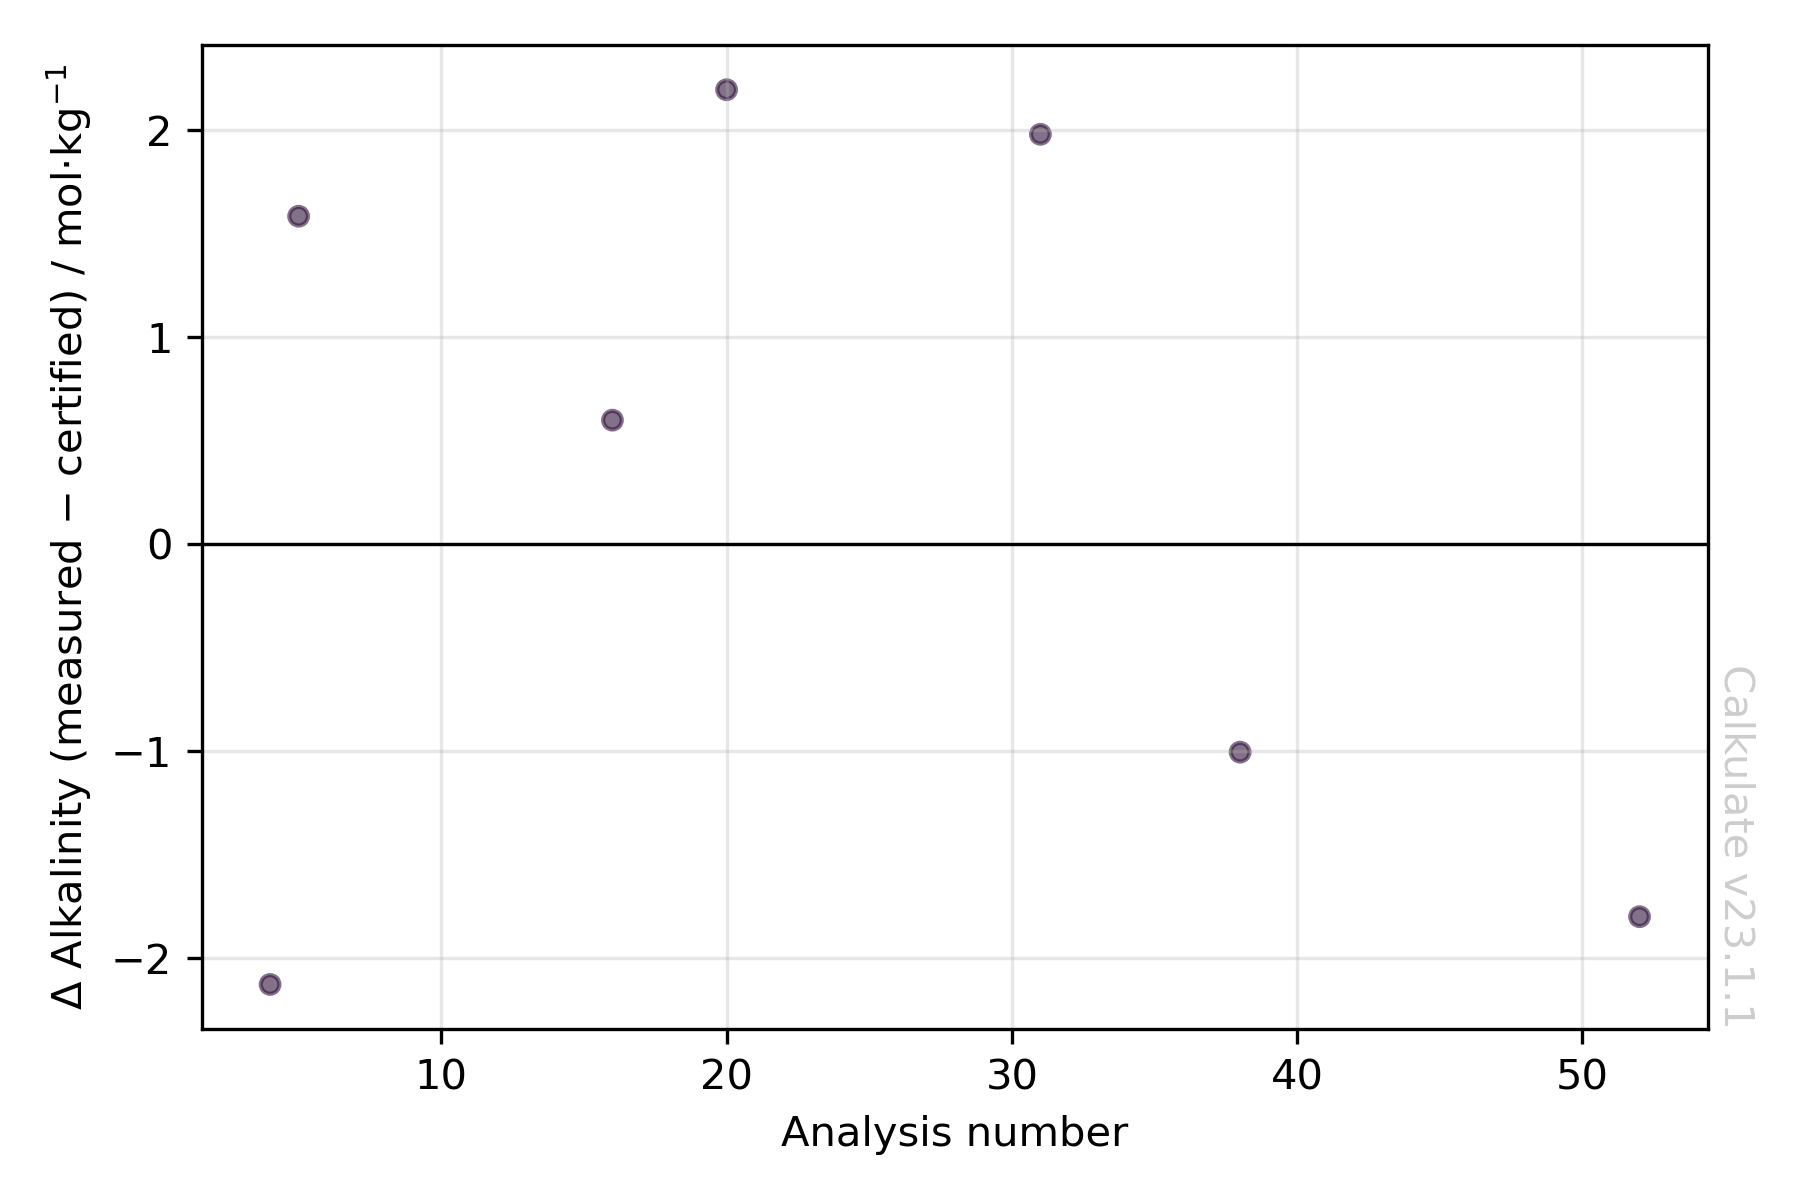
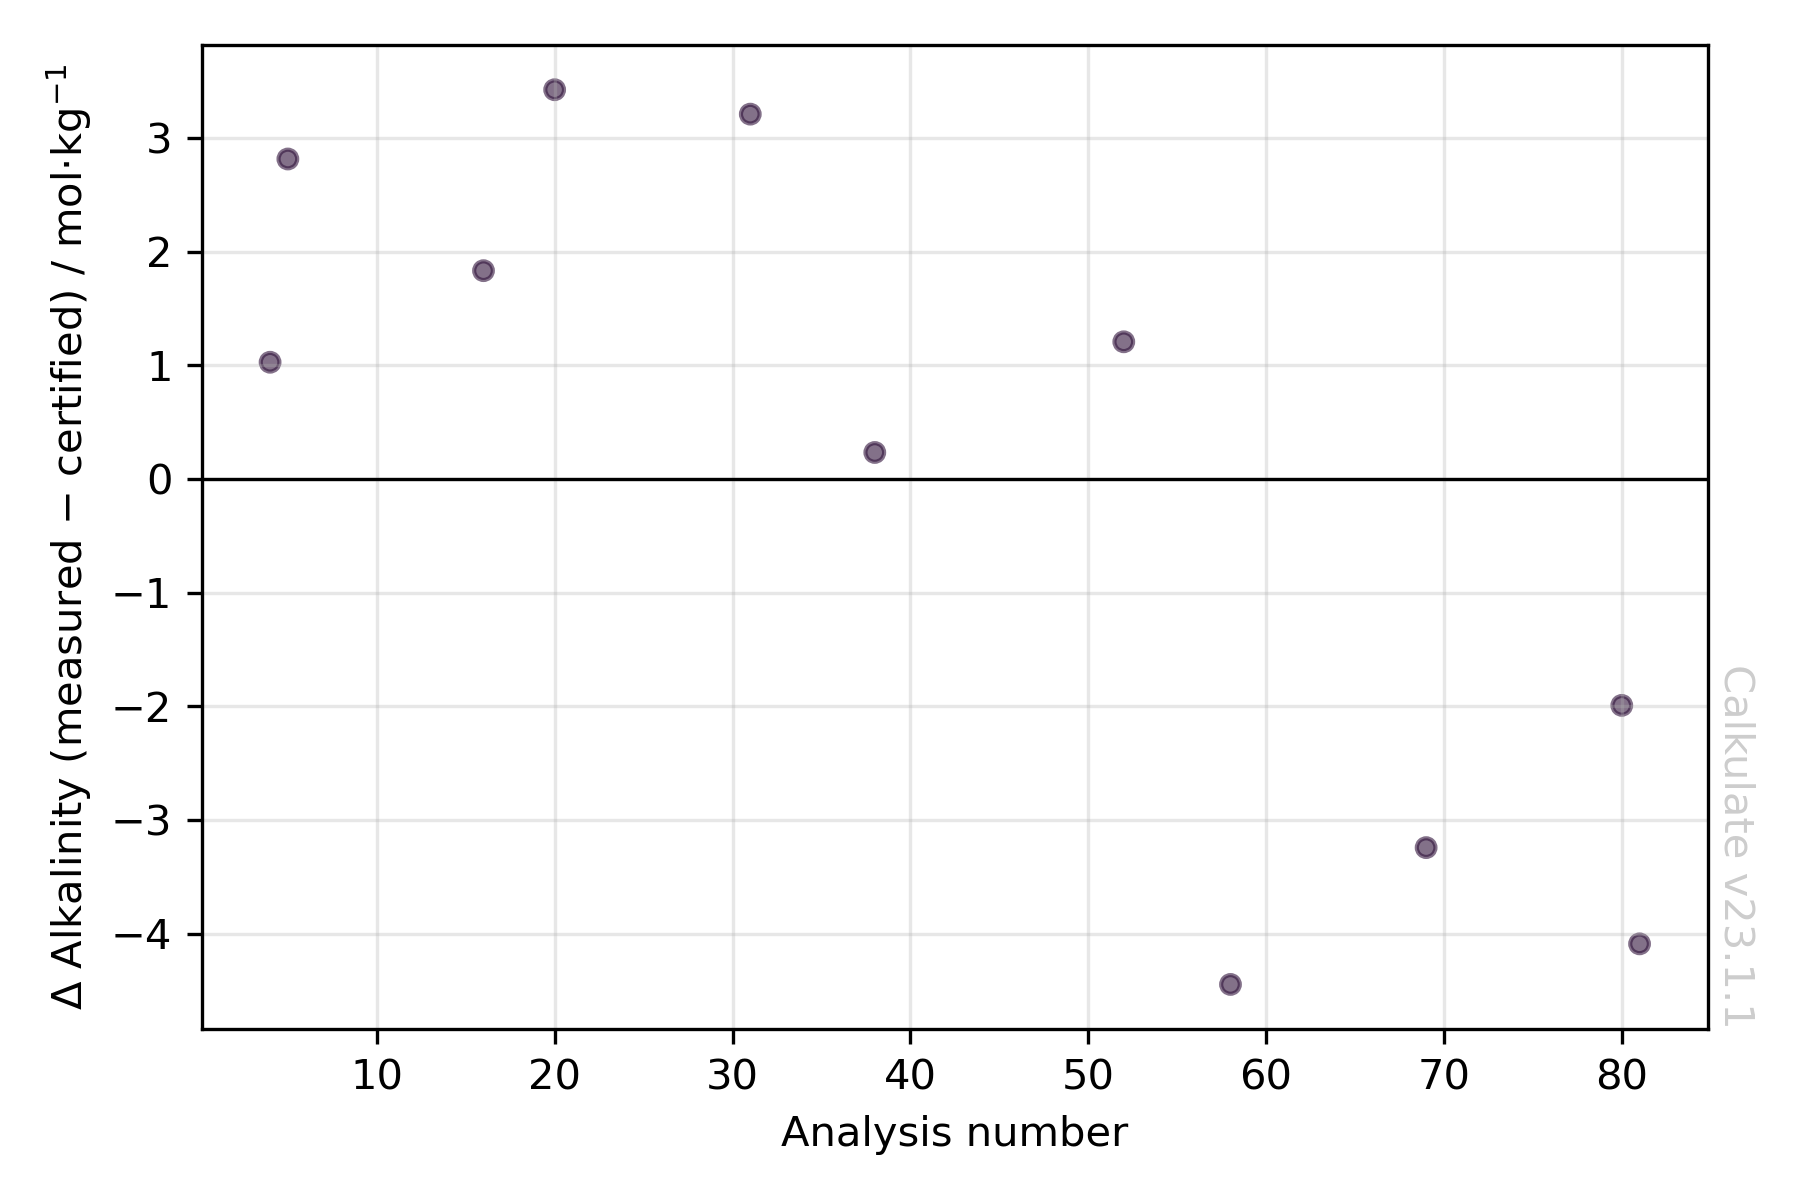
fixed datetime error

diff --git a/vindta/storage_test_process.py b/vindta/storage_test_process.py
@@ -30,23 +30,30 @@ L = (dbs['analysis_datetime'].dt.day == 2) & (dbs['analysis_datetime'].dt.month 
 dbs.loc[L, 'analysis_datetime'] = dbs['analysis_datetime'] + DateOffset(hours=10)
 dbs.loc[L, 'analysis_datetime'] = dbs['analysis_datetime'].apply(lambda dt: dt.replace(year=2021, month=10, day=6))
 
-# Modify date error for 27/10/2021
-L = (dbs['analysis_datetime'].dt.day == 2) & (dbs['analysis_datetime'].dt.month == 5) & (dbs['analysis_datetime'].dt.year == 2005) & (dbs['analysis_datetime'].dt.hour > 9)
-dbs.loc[L, 'analysis_datetime'] = dbs['analysis_datetime'] - DateOffset(hours=10)
-dbs.loc[L, 'analysis_datetime'] = dbs['analysis_datetime'].apply(lambda dt: dt.replace(year=2021, month=10, day=27))
-L = (dbs['analysis_datetime'].dt.day == 3) & (dbs['analysis_datetime'].dt.month == 5) & (dbs['analysis_datetime'].dt.year == 2005)
-dbs.loc[L, 'analysis_datetime'] = dbs['analysis_datetime'] - DateOffset(hours=10)
-dbs.loc[L, 'analysis_datetime'] = dbs['analysis_datetime'].apply(lambda dt: dt.replace(year=2021, month=10, day=27))
+# No date error for 13/10/2021
 
-# Modify date error for 18/11/2021
-L = dbs.index >= 54
+# # Modify date error for 27/10/2021
+october_list = ["J10", "J11", "J12", "J13", "J14", "J15", "CRM-189-0159-1", "S48", "S71", "S51", "S13", "S75", "S93","S49", "S24", "S99",
+                "J16", "J17", "J18", "S40", "CRM-189-0159-2", "CRM-189-0159-3"]
+for sample in october_list:
+    L = dbs["bottle"] == sample
+    dbs.loc[L, 'analysis_datetime'] = dbs['analysis_datetime'].apply(lambda dt: dt.replace(year=2021, month=10, day=27))
+
+# # Modify date error for 18/11/2021
+november_list = ["J20", "J21", "J22", "J23", "CRM-195-0052-1", "S10", "S43", "S52", "S73", "S27", "S61", "S83", "S85", "S95", "S42",
+                 "CRM-195-0052-2", "H08", "H07", "H06", "H05", "H04", "H02", "H03-1", "H01-1", "H01-2", "H01-2", "H03-2",
+                 "CRM-195-0052-3", "CRM-195-0052-4"]
+
+for sample in november_list:
+    L = dbs["bottle"] == sample
+    dbs.loc[L, 'analysis_datetime'] = dbs['analysis_datetime'].apply(lambda dt: dt.replace(year=2021, month=11, day=18))
 dbs.loc[L, 'analysis_datetime'] = dbs['analysis_datetime'].apply(lambda dt: dt.replace(year=2021, month=11, day=18))
 
 
 # Assign metadata values for CRMs batch 189
-prefixes = ["CRM-189-"]
+prefixes = "CRM-189-"
 dbs["crm"] = dbs.bottle.str.startswith("CRM")
-dbs["crm_batch_189"] = dbs.bottle.str.startswith(tuple(prefixes))
+dbs["crm_batch_189"] = dbs.bottle.str.startswith(prefixes)
 dbs.loc[dbs.crm_batch_189, "dic_certified"] = 2009.48  # micromol/kg-sw
 dbs.loc[dbs.crm_batch_189, "alkalinity_certified"] = 2205.26  # micromol/kg-sw
 dbs.loc[dbs.crm_batch_189, "salinity"] = 33.494
@@ -55,15 +62,15 @@ dbs.loc[dbs.crm_batch_189, "total_silicate"] = 2.1  # micromol/kg-sw
 dbs.loc[dbs.crm_batch_189, "total_ammonia"] = 0  # micromol/kg-sw
 
 # Assign metadata values for CRMs batch 195
-prefixes = ["CRM-195-"]
+prefixes = "CRM-195-"
 dbs["crm"] = dbs.bottle.str.startswith("CRM")
-dbs["crm_batch_195"] = dbs.bottle.str.startswith(tuple(prefixes))
-dbs.loc[dbs.crm_batch_189, "dic_certified"] = 2024.96 # micromol/kg-sw
-dbs.loc[dbs.crm_batch_189, "alkalinity_certified"] = 2213.51  # micromol/kg-sw
-dbs.loc[dbs.crm_batch_189, "salinity"] = 33.485
-dbs.loc[dbs.crm_batch_189, "total_phosphate"] = 0.49  # micromol/kg-sw
-dbs.loc[dbs.crm_batch_189, "total_silicate"] = 3.6  # micromol/kg-sw
-dbs.loc[dbs.crm_batch_189, "total_ammonia"] = 0  # micromol/kg-sw
+dbs["crm_batch_195"] = dbs.bottle.str.startswith(prefixes)
+dbs.loc[dbs.crm_batch_195, "dic_certified"] = 2024.96 # micromol/kg-sw
+dbs.loc[dbs.crm_batch_195, "alkalinity_certified"] = 2213.51  # micromol/kg-sw
+dbs.loc[dbs.crm_batch_195, "salinity"] = 33.485
+dbs.loc[dbs.crm_batch_195, "total_phosphate"] = 0.49  # micromol/kg-sw
+dbs.loc[dbs.crm_batch_195, "total_silicate"] = 3.6  # micromol/kg-sw
+dbs.loc[dbs.crm_batch_195, "total_ammonia"] = 0  # micromol/kg-sw
 
 # Assign temperature = 25.0 for VINDTA analysis temperature
 dbs["temperature_override"] = 25.0
@@ -97,8 +104,9 @@ dbs.loc[dbs['bottle']=='CRM-189-0159-3', 'file_good'] = False
 # Calibrate and solve alkalinity and plot calibration
 calk.io.get_VINDTA_filenames(dbs)
 calk.dataset.calibrate(dbs)
+# update titrant molity value in dbs file
 calk.dataset.solve(dbs)
-calk.plot.titrant_molinity(dbs, figure_fname="figs/LD_storage_test_TA/titrant_molinity.png", show_bad=False)
+calk.plot.titrant_molinity(dbs, figure_fname="figs/LD_storage_test_TA/titrant_molinity.png", show_bad=False, xvar="analysis_datenum")
 calk.plot.alkalinity_offset(dbs, figure_fname="figs/LD_storage_test_TA/alkalinity_offset.png", show_bad=False)
 
 # Demote dbs to a standard DataFrame
@@ -143,6 +151,11 @@ for batch in batches:
     statistics.loc[statistics['batch_number']==batch, 'standard_error_all_batches'] = stats.mstats.sem(dbs['alkalinity'][L], axis=None, ddof=0)
 
 statistics.to_csv('./data/stats_vindta.csv', index=False)
+
+# === ISOLATE HANNA'S DATA
+L = dbs.bottle.str.startswith("H")
+hanna = dbs[L]
+hanna_mean = round(hanna.alkalinity.mean(), 2)
 
 # === PLOT
 # Create figure
